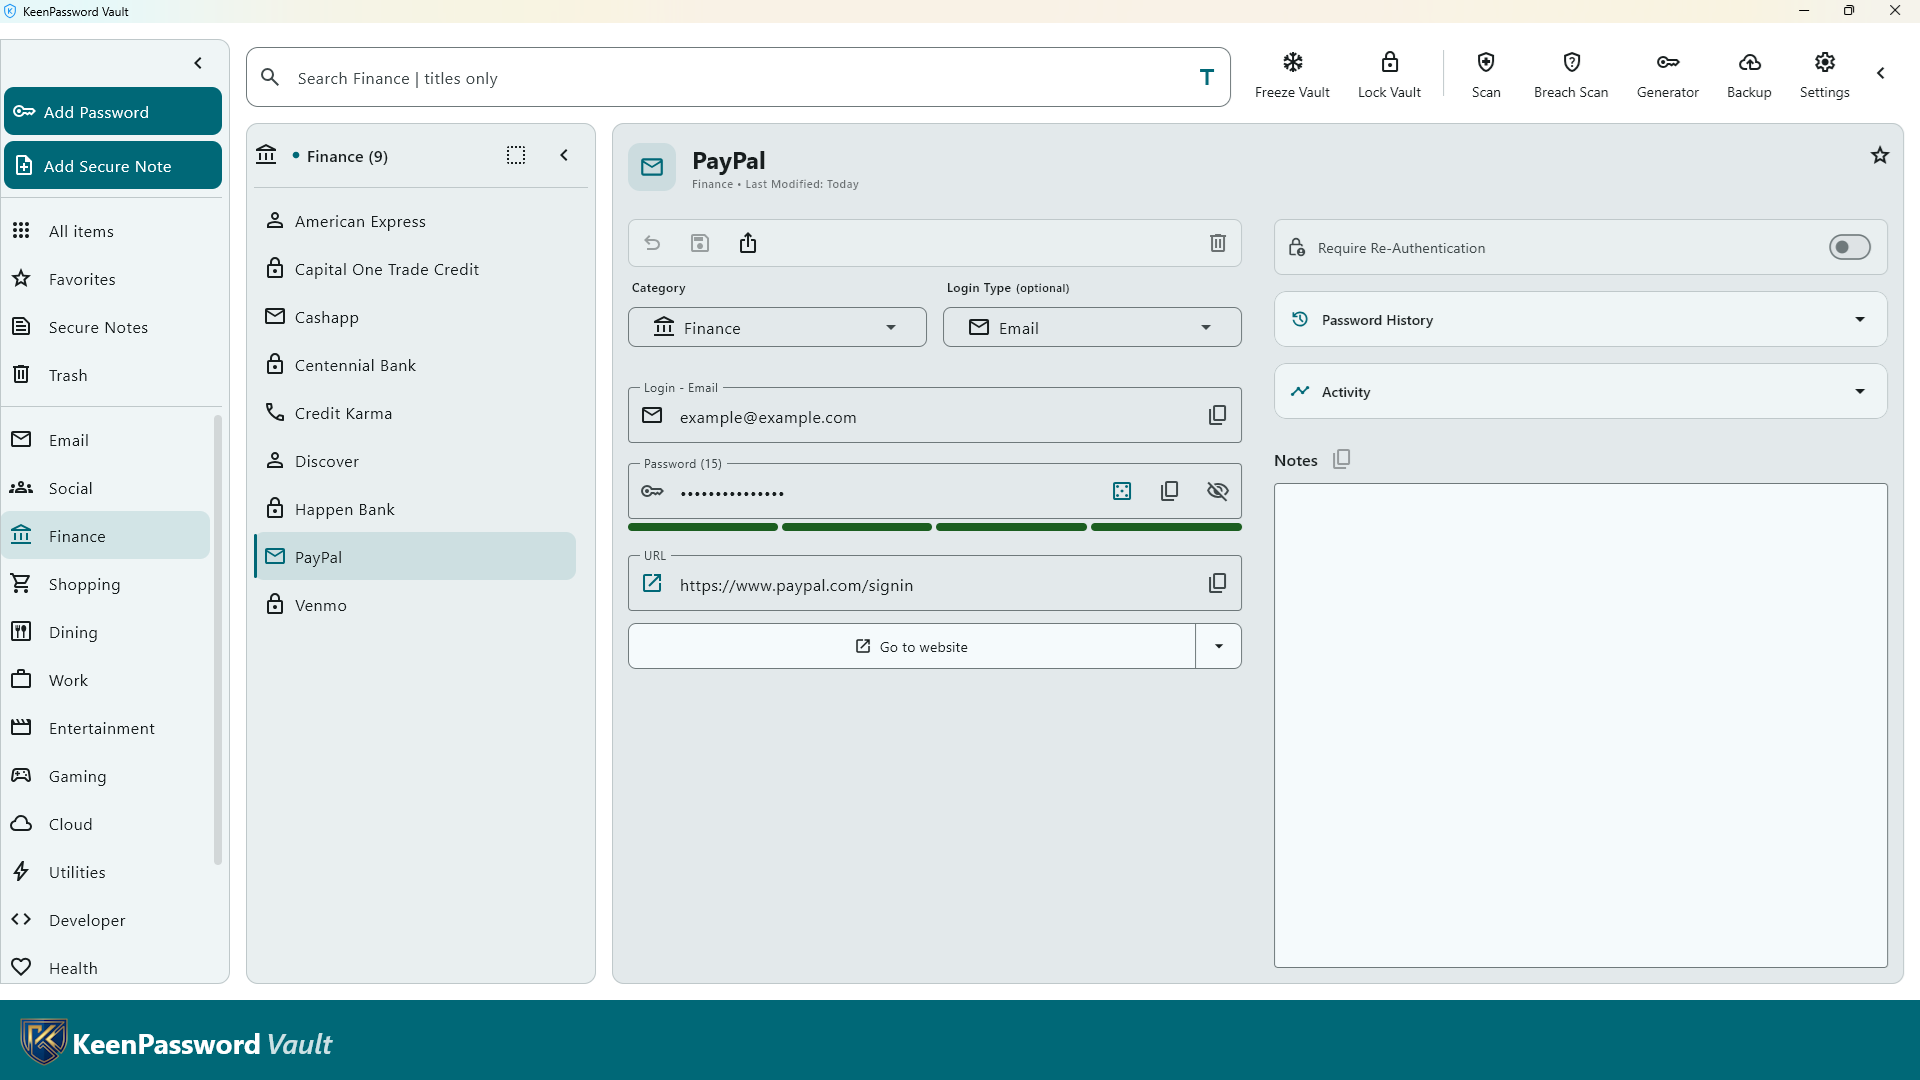
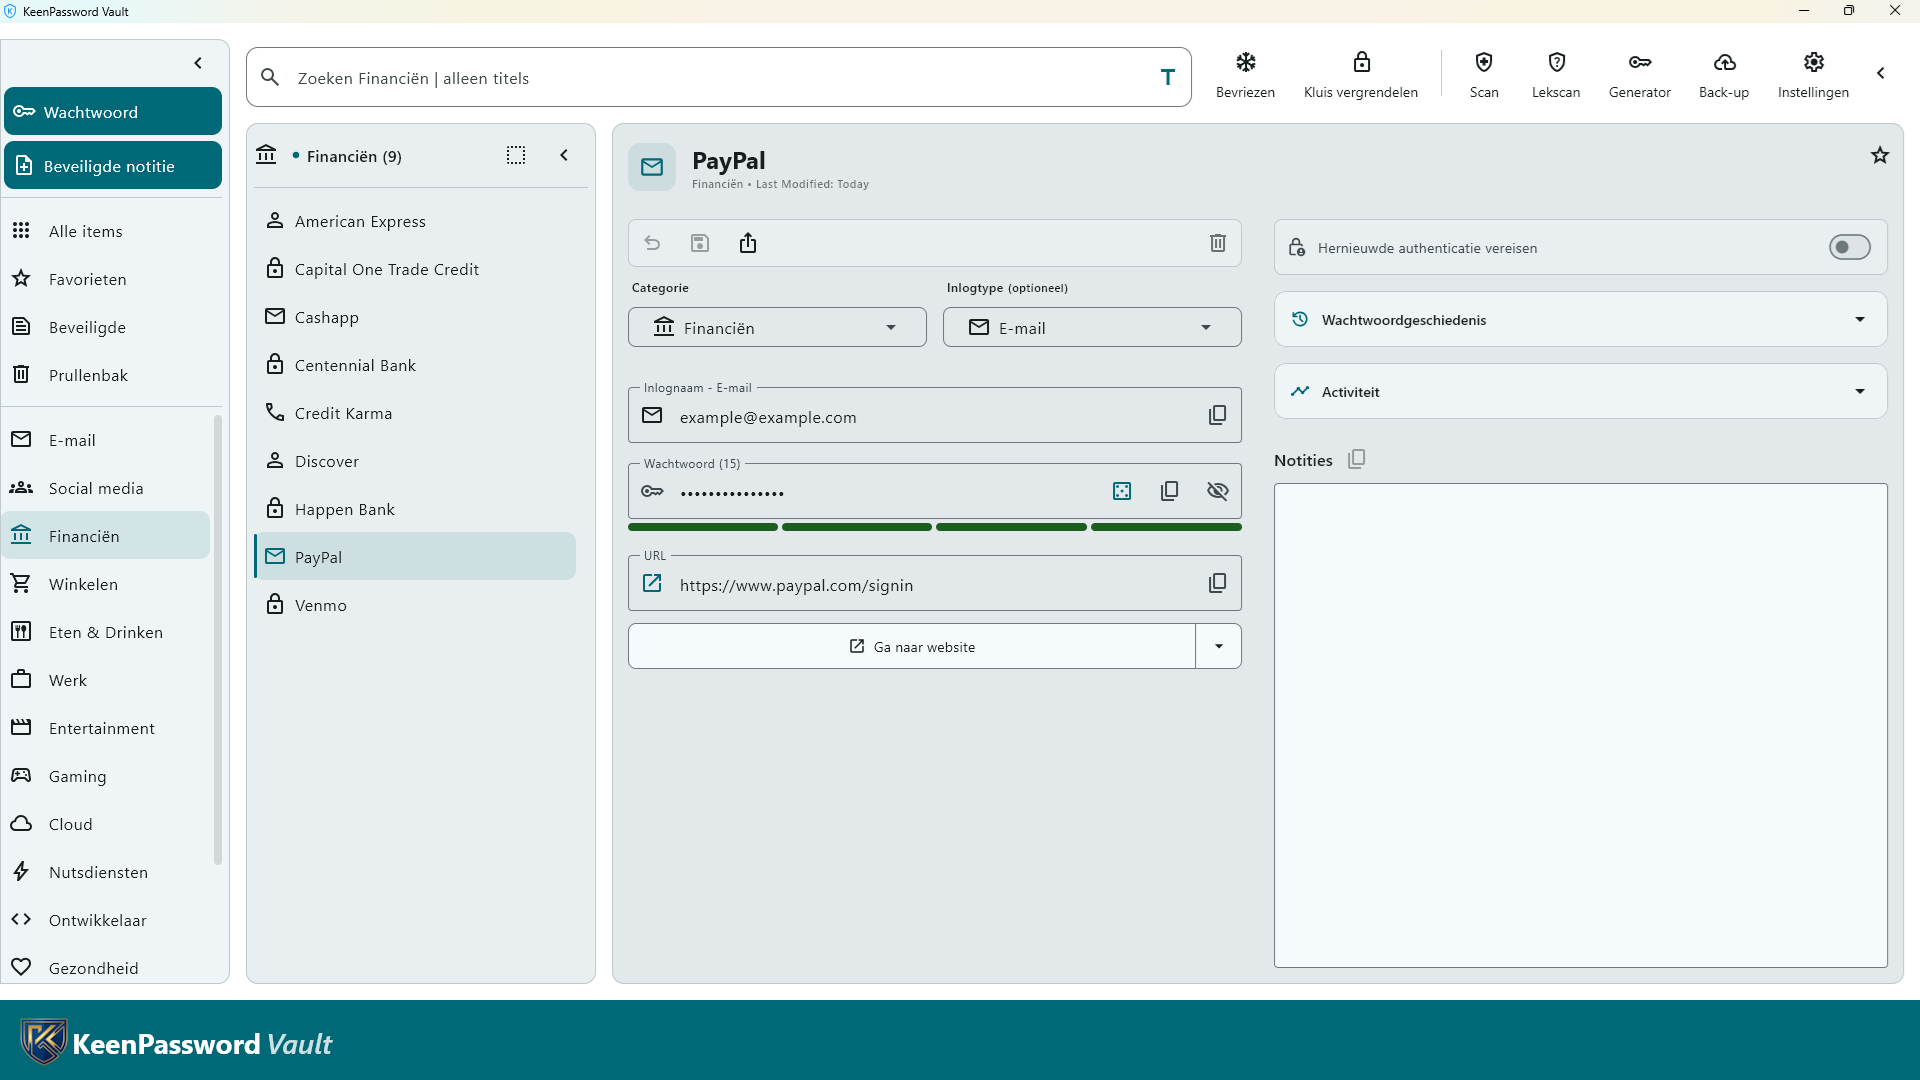
added dutch screenshots

diff --git a/nl/index.html b/nl/index.html
@@ -88,9 +88,9 @@
           <div class="glow"></div>
 
           <button class="screenshot-button hero-screenshot-button" type="button"
-            data-image="../images/main_screenshot.png" data-alt="KeenPassword Vault met de ontgrendelde wachtwoordkluis"
+            data-image="../images/nl/main_screenshot.png" data-alt="KeenPassword Vault met de ontgrendelde wachtwoordkluis"
             aria-label="KeenPassword Vault-schermafbeelding schermvullend bekijken">
-            <img src="../images/main_screenshot.png" alt="KeenPassword Vault met de ontgrendelde wachtwoordkluis"
+            <img src="../images/nl/main_screenshot.png" alt="KeenPassword Vault met de ontgrendelde wachtwoordkluis"
               class="hero-screenshot">
           </button>
 

diff --git a/pt-pt/index.html b/pt-pt/index.html
@@ -88,10 +88,10 @@
           <div class="glow"></div>
 
           <button class="screenshot-button hero-screenshot-button" type="button"
-            data-image="../images/main_screenshot.png"
+            data-image="../images/pt-pt/main_screenshot.png"
             data-alt="KeenPassword Vault com o cofre de palavras-passe desbloqueado"
             aria-label="Ver a captura de ecrã do KeenPassword Vault em ecrã inteiro">
-            <img src="../images/main_screenshot.png" alt="KeenPassword Vault com o cofre de palavras-passe desbloqueado"
+            <img src="../images/pt-pt/main_screenshot.png" alt="KeenPassword Vault com o cofre de palavras-passe desbloqueado"
               class="hero-screenshot">
           </button>
 
